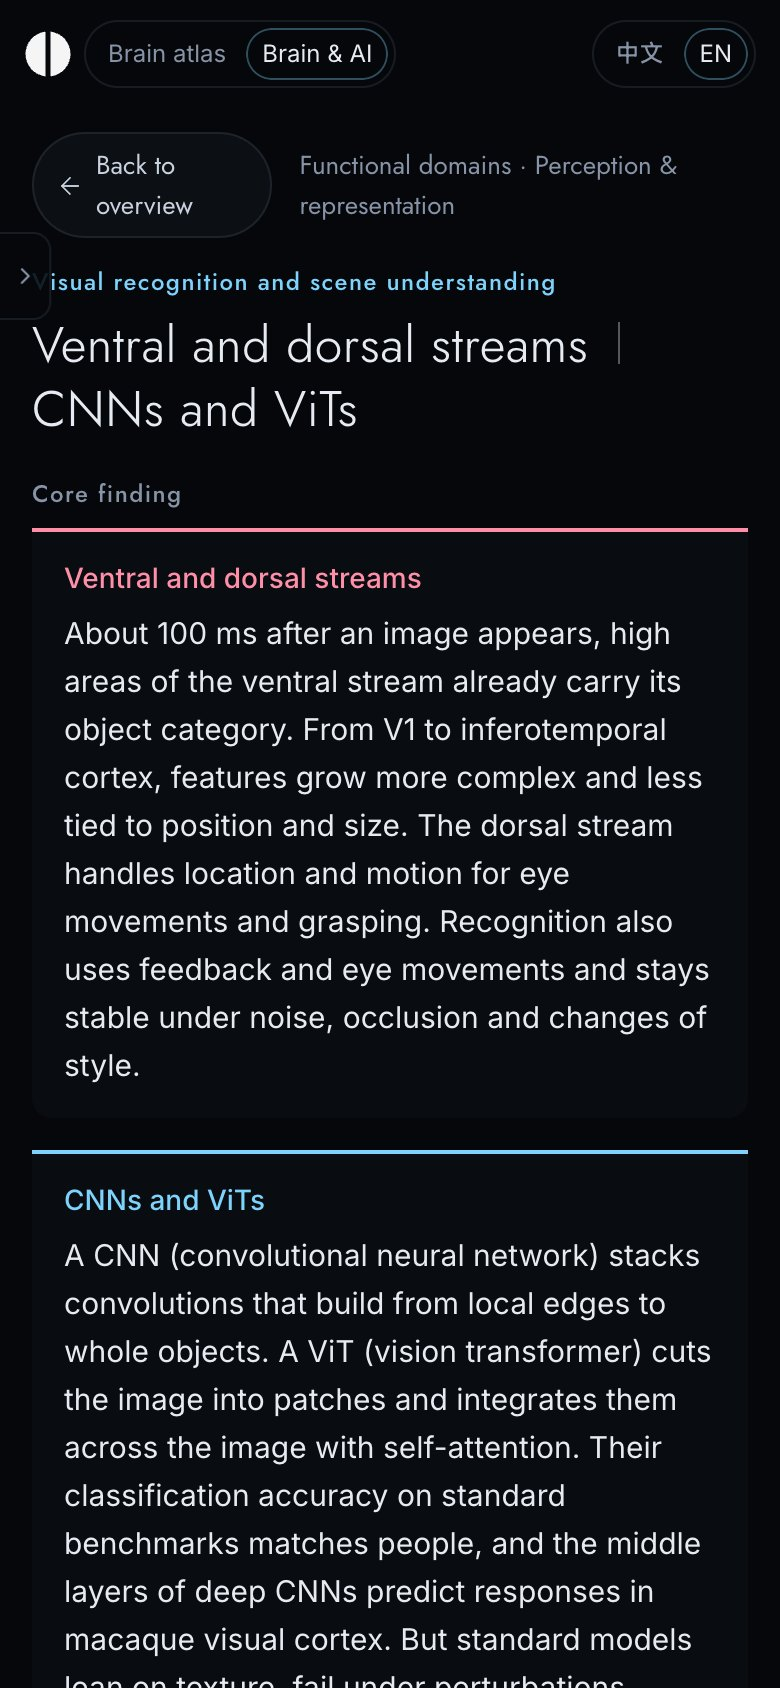
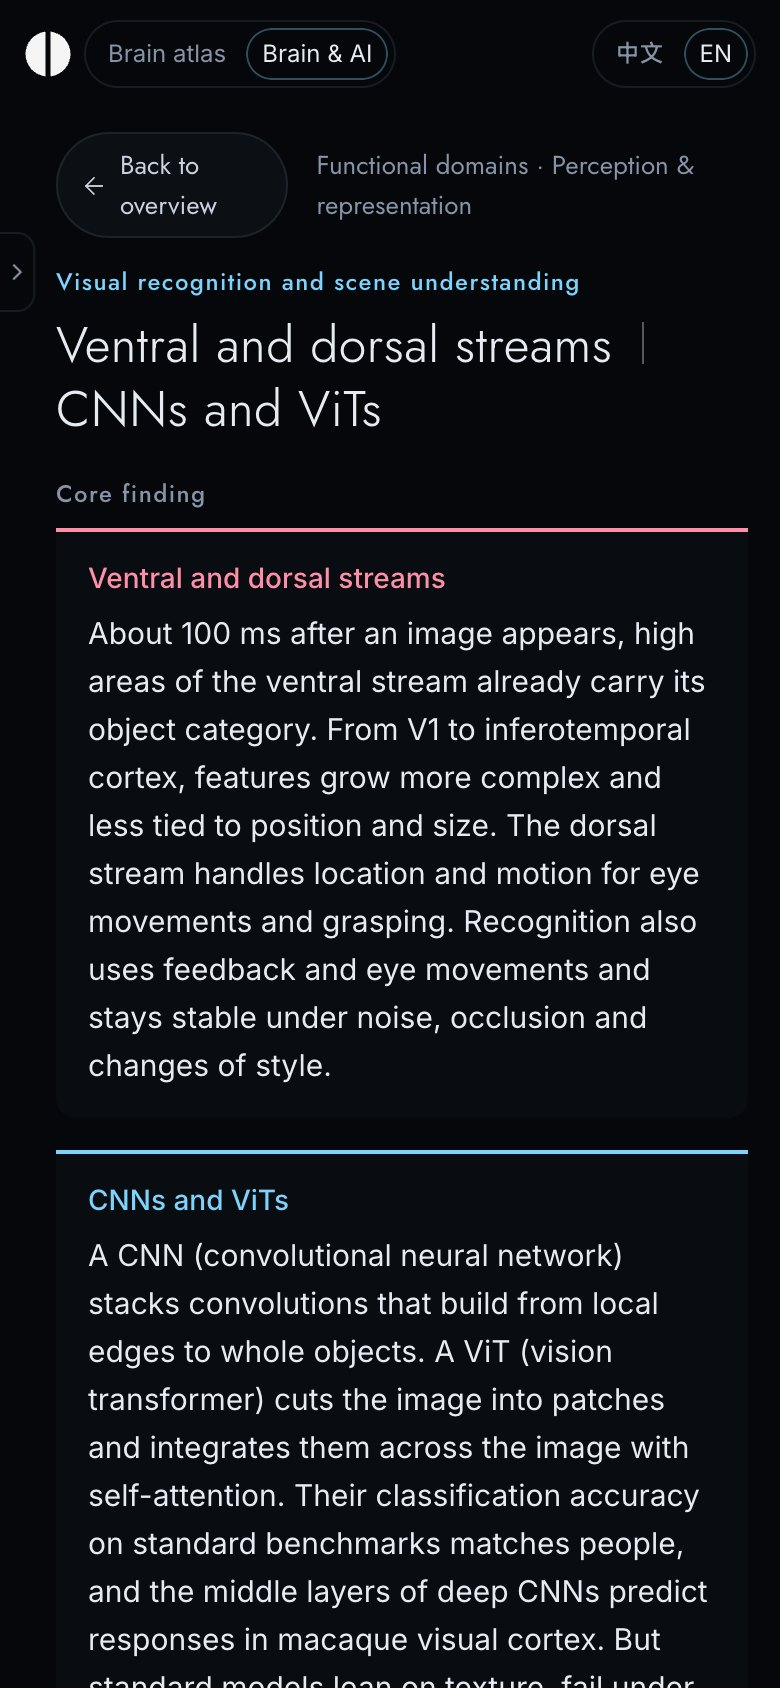
Brain & AI (phones): give the directory tab its own gutter
The 26px tab sat over the first 10px of the text at every scroll position.
On phones it is 18px wide and the page keeps a 28px left margin.

diff --git a/src/index.css b/src/index.css
@@ -1443,7 +1443,9 @@ input[type=range]::-moz-range-thumb { width: 12px; height: 12px; border: 0; bord
   .atlas .systems.compact { top: 90px; }
   .atlas .left-col { top: 138px; }
   .ai-section { top: 52px; }
-  .ai-drawer-tab { top: 64px; }
+  /* the directory tab gets its own gutter at the left edge, so scrolled text never runs under it */
+  .ai-drawer-tab { top: 64px; right: -18px; width: 18px; height: 40px; }
+  .ai-main { padding-left: 28px; }
 }
 
 @media (max-width: 519px) {
